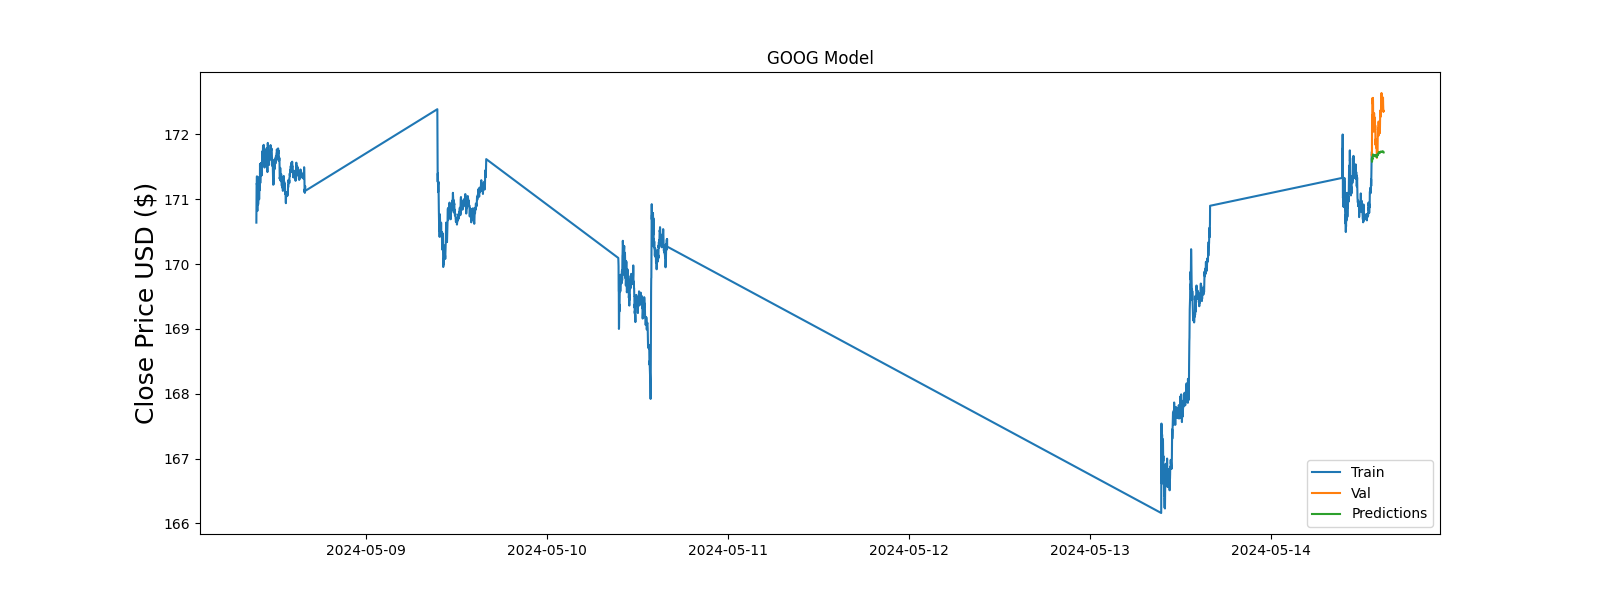
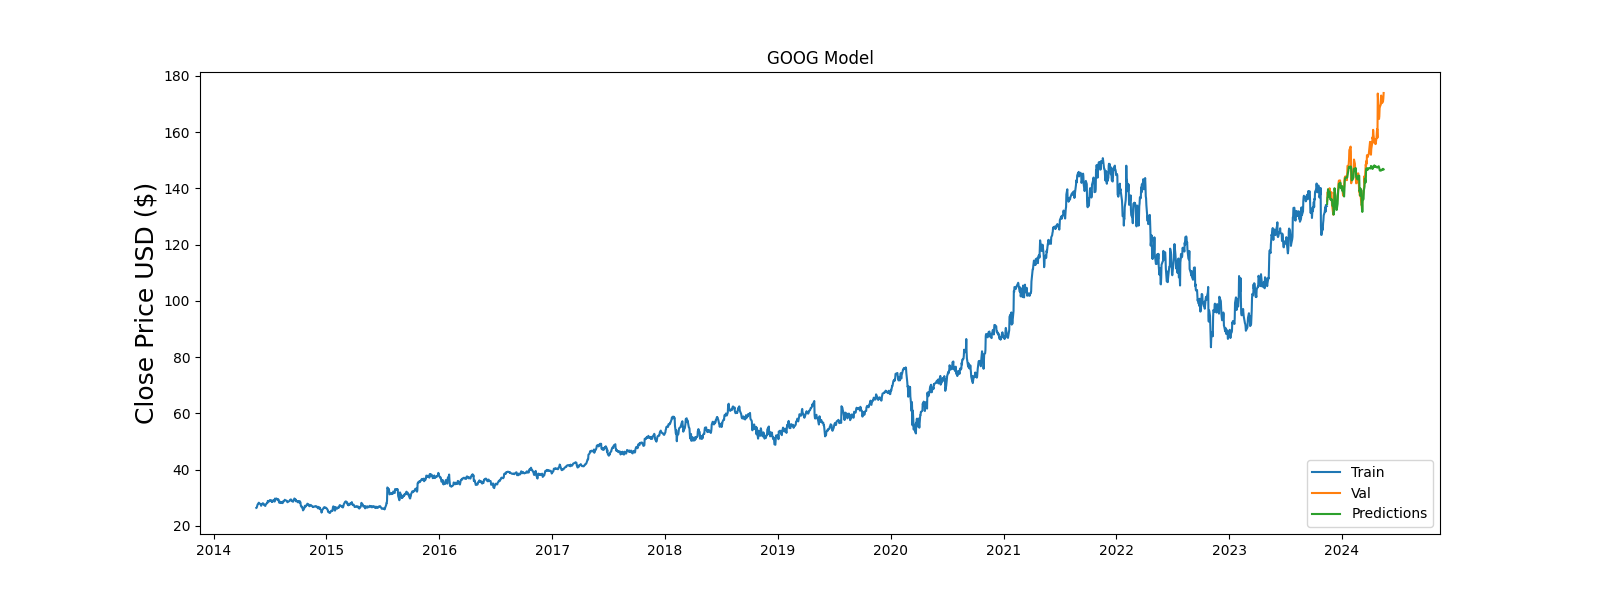
Refactor `app.py`

diff --git a/app.py b/app.py
@@ -42,15 +42,15 @@ def download_and_preprocess_data(company, time_diff_unit):
 
     # Set default maximum download period based on time_diff_unit
     if time_diff_unit.lower() == 'days':
-        max_period = 60
+        max_period = 365*10
         start = end - timedelta(days=max_period)
     elif time_diff_unit.lower() in ('hours', 'minutes'):
-        max_period = int(7 * 24 * 60)
-        start = end - timedelta(minutes=max_period)
+        max_period = 7
     else:
         raise ValueError(
             "Unexpected error: invalid time_diff_unit after validation.")
-
+    
+    start = end - timedelta(days=max_period)
     # Download data for the maximum period
 
     print(
@@ -68,18 +68,17 @@ def download_and_preprocess_data(company, time_diff_unit):
         return pd.DataFrame()
 
     data["company_name"] = company
-
     return data.filter(["Close"])
 
 
 # train a stock price prediction model
 
 
-def train_model(data, model_type="RandomForestRegressor", training_split=0.8):
+def train_model(data, model_type="RandomForestRegressor", training_split=0.95):
 
     dataset = data.values
 
-    training_data_len = int(len(dataset) * 0.95)
+    training_data_len = int(len(dataset) * training_split)
 
     scaler = MinMaxScaler(feature_range=(0, 1))
     scaled_data = scaler.fit_transform(dataset)
@@ -120,18 +119,11 @@ def train_model(data, model_type="RandomForestRegressor", training_split=0.8):
             raise ValueError(f"Invalid model type: {model_type}")
         model.fit(x_train, y_train)
 
-    test_data = scaled_data[training_data_len - 60:, :]
-    x_test = []
-    for i in range(60, len(test_data)):
-        x_test.append(test_data[i-60:i, 0])
-
-    # Convert the data to a numpy array
-    x_test = np.array(x_test)
-    return model, data, scaled_data, scaler, training_data_len
+    return model, scaled_data, scaler, training_data_len
 
 
 # predictions
-def make_predictions(model, data, scaled_data, scaler, training_data_len):
+def make_predictions(model, scaled_data, scaler, training_data_len):
 
     test_data = scaled_data[training_data_len - 60:, :]
     x_test = []
@@ -148,7 +140,7 @@ def make_predictions(model, data, scaled_data, scaler, training_data_len):
     return predictions
 
 
-@app.post("/predict")
+@app.post("/api/predict")
 async def predict_stock_price(
     company: str = Body(default="GOOG", description="The stock ticker symbol"),
     time_diff_value: str = Query(
@@ -164,7 +156,7 @@ async def predict_stock_price(
     Predicts the closing stock price for a given company based on user-specified parameters.
 
     Args:
-        company (str, optional): The stock ticker symbol. Defaults to "MSFT".
+        company (str, optional): The stock ticker symbol. Defaults to "GOOG".
         time_diff_unit (str, optional): The time difference unit (days, hours, minutes).
         Defaults to "days".
         model_type (str, optional): The model type to use for prediction
@@ -179,10 +171,10 @@ async def predict_stock_price(
     try:
         data = download_and_preprocess_data(
             company, time_diff_value)
-        model, data, scaled_data, scaler, training_data_len = train_model(
+        model, scaled_data, scaler, training_data_len = train_model(
             data, model_type)
         predictions = make_predictions(
-            model, data, scaled_data, scaler, training_data_len)
+            model, scaled_data, scaler, training_data_len)
         # Plot the data
         training_data_len = int(len(data) * 0.95)
         train = data[:training_data_len]
